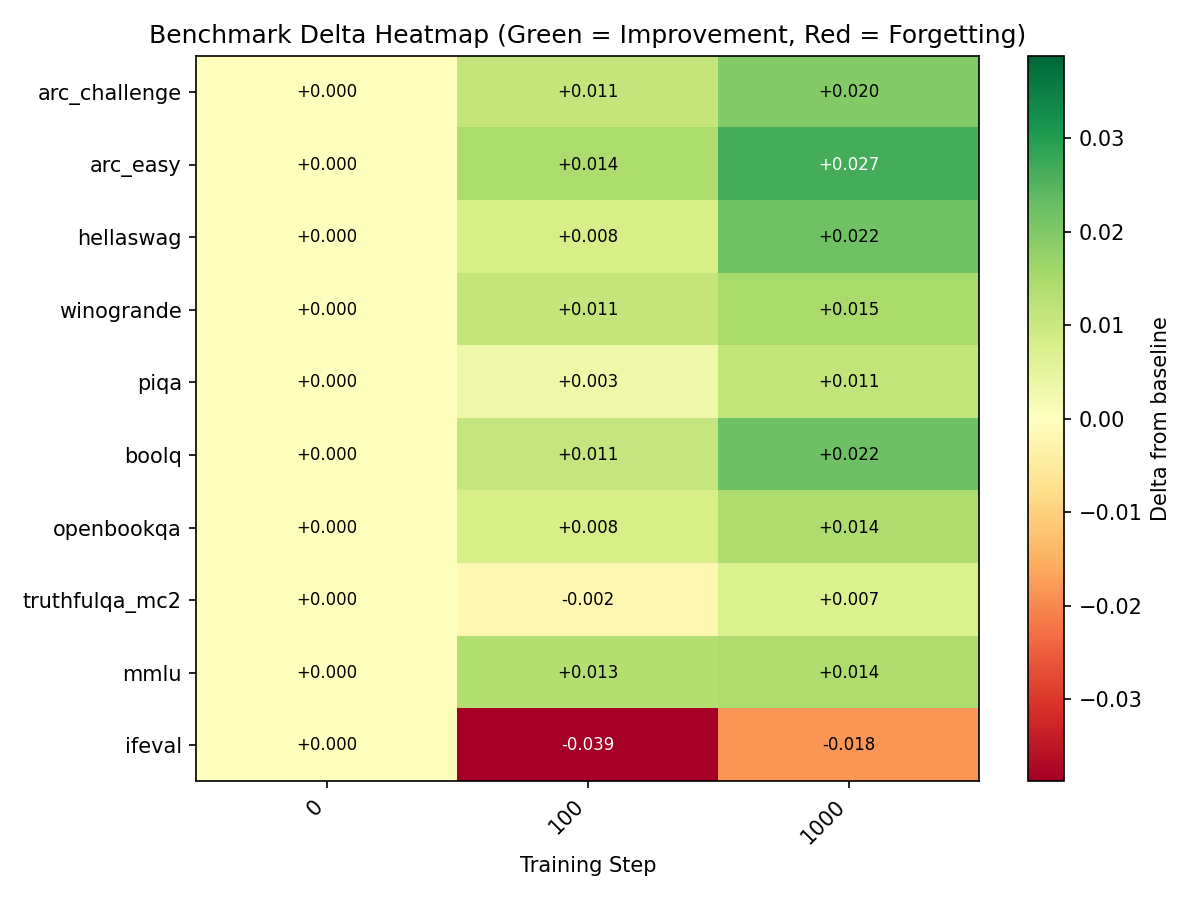
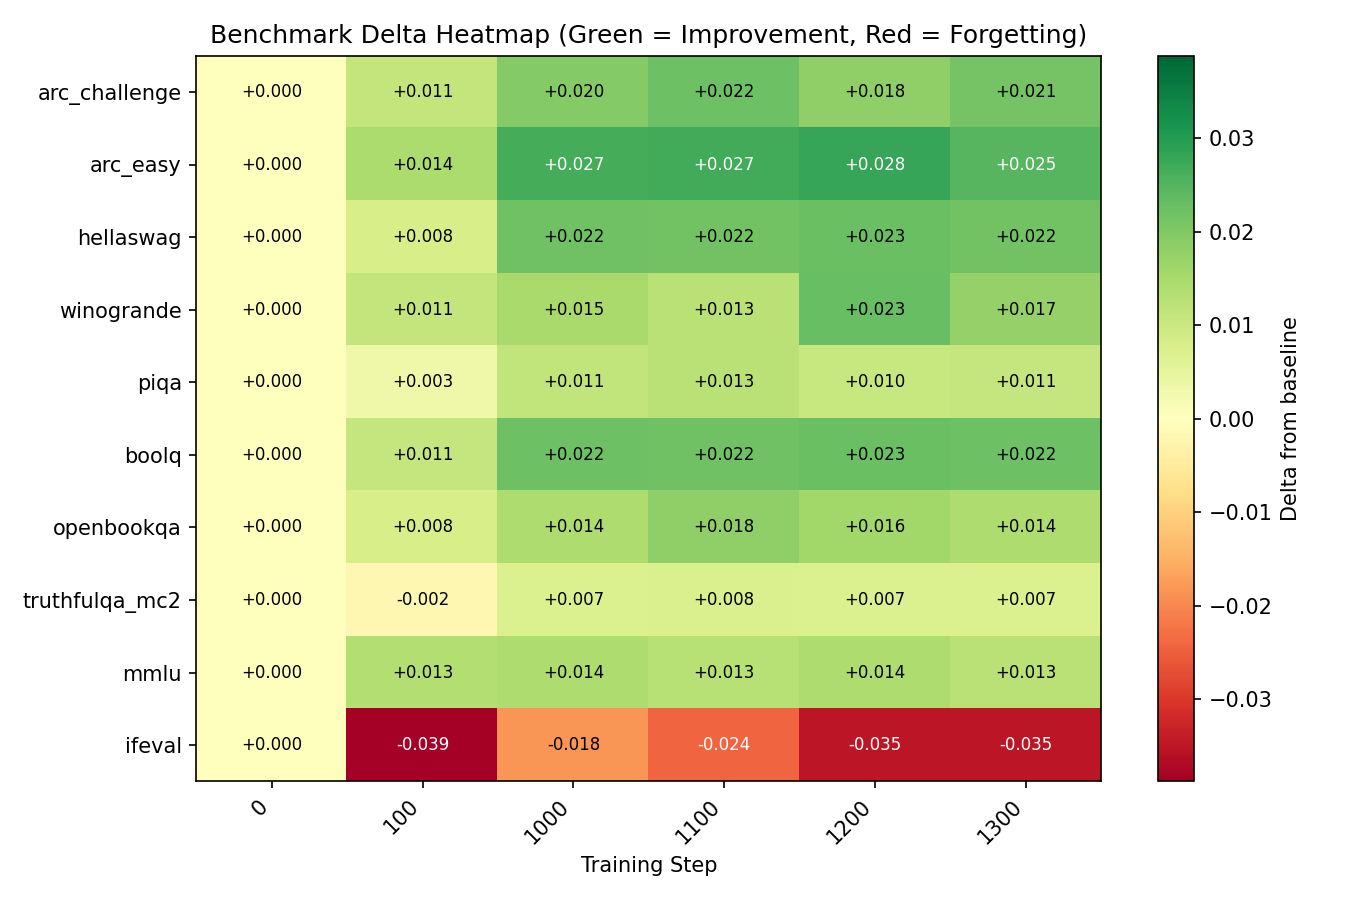
Add GRPO MATH results, update GT-SFT MATH through step 1300
GRPO MATH (complete, 4 checkpoints): essentially no forgetting (+0.003 avg),
IFEval improves +0.031. Contrasts with GRPO GSM8K which shows -0.008 avg.

GT-SFT MATH now through step 1300: +0.012 avg, consistent improvement on
9/10 benchmarks, only IFEval drops (-0.035).

SF-SFT training jobs queued (3 datasets) with fixed max_length for
<think> teacher responses.

diff --git a/STATUS.md b/STATUS.md
@@ -99,13 +99,13 @@ All checkpoint paths relative to `~/scratch/forgetting-llms/`.
 |-----|-------------|------|--------|-----|-------|
 | GRPO GSM8K | 6 + base | **7/7** | **COMPLETE** | A100 | 10 benchmarks |
 | GT-SFT GSM8K | 6 + base | **6/6** | **COMPLETE** | A100 | 8 benchmarks (steps 0, 87, 100, 1000–1200) |
-| GT-SFT MATH | 14 + base | 3/15 | **RUNNING** | L40S | Job 8864513 on cn-l037 |
-| GRPO MATH | 4 + base | 1/5 | **RUNNING** | L40S | Job 8864514 on cn-l054 |
-| GT-SFT TriviaQA | 15 + base | 0/16 | QUEUED | L40S | Job 8864515, depends on GT-SFT MATH |
-| GRPO TriviaQA | 5 + base | 0/6 | QUEUED | L40S | Job 8864516, depends on GRPO MATH |
-| SF-SFT GSM8K | — | — | BLOCKED | — | Training not started |
-| SF-SFT MATH | — | — | BLOCKED | — | Training not started |
-| SF-SFT TriviaQA | — | — | BLOCKED | — | Training not started |
+| GRPO MATH | 4 + base | **4/5** | **COMPLETE** | L40S | 10 benchmarks (step 800 missing results JSON) |
+| GT-SFT MATH | 14 + base | 6/15 | TIMED OUT | L40S | Resumable, 8 more checkpoints needed |
+| GT-SFT TriviaQA | 15 + base | 0/16 | **RUNNING** | L40S | Job 8864515 |
+| GRPO TriviaQA | 5 + base | 0/6 | **RUNNING** | L40S | Job 8864516 |
+| SF-SFT GSM8K | — | — | QUEUED | L40S | Training job 8870423, starts after evals |
+| SF-SFT MATH | — | — | QUEUED | L40S | Training job 8870424 |
+| SF-SFT TriviaQA | — | — | QUEUED | L40S | Training job 8870425 |
 
 **Task Accuracy Evals** (in-distribution, via vLLM + unified_reward.py):
 
@@ -188,25 +188,49 @@ All new jobs on L40S GPUs (46GB VRAM, validated). 2 jobs run in parallel (QOS: 8
 
 ![GT-SFT MATH Heatmap](figures/eval_results/gt_sft_math/heatmap.png)
 
-| Benchmark | Base | Step 100 | Step 1000 | Delta (1000) |
-|-----------|------|----------|-----------|-------------|
-| arc_challenge | 0.4309 | 0.4420 | 0.4505 | **+0.0196** |
-| arc_easy | 0.7003 | 0.7146 | 0.7269 | **+0.0265** |
-| hellaswag | 0.6045 | 0.6126 | 0.6266 | **+0.0221** |
-| winogrande | 0.6069 | 0.6180 | 0.6219 | **+0.0150** |
-| piqa | 0.7247 | 0.7280 | 0.7361 | **+0.0114** |
-| boolq | 0.7771 | 0.7878 | 0.7994 | **+0.0223** |
-| openbookqa | 0.3720 | 0.3800 | 0.3860 | **+0.0140** |
-| truthfulqa_mc2 | 0.4597 | 0.4577 | 0.4668 | **+0.0071** |
-| mmlu | 0.5546 | 0.5681 | 0.5688 | **+0.0142** |
-| ifeval | 0.1756 | 0.1368 | 0.1571 | **-0.0185** |
-| **Average** | | | | **+0.0134** |
+| Benchmark | Base | Step 1000 | Step 1300 | Delta (1300) |
+|-----------|------|-----------|-----------|-------------|
+| arc_challenge | 0.4309 | 0.4505 | 0.4522 | **+0.0213** |
+| arc_easy | 0.7003 | 0.7269 | 0.7252 | **+0.0248** |
+| hellaswag | 0.6045 | 0.6266 | 0.6263 | **+0.0218** |
+| winogrande | 0.6069 | 0.6219 | 0.6243 | **+0.0174** |
+| piqa | 0.7247 | 0.7361 | 0.7356 | **+0.0109** |
+| boolq | 0.7771 | 0.7994 | 0.7994 | **+0.0223** |
+| openbookqa | 0.3720 | 0.3860 | 0.3860 | **+0.0140** |
+| truthfulqa_mc2 | 0.4597 | 0.4668 | 0.4669 | **+0.0072** |
+| mmlu | 0.5546 | 0.5688 | 0.5673 | **+0.0127** |
+| ifeval | 0.1756 | 0.1571 | 0.1405 | **-0.0351** |
+| **Average** | | | | **+0.0117** |
 
-*12 more checkpoints evaluating (job 8864513 on L40S).*
+*6/14 checkpoints done. 8 more evaluating (job 8864513 timed out, will resume).*
+
+### GRPO MATH — Forgetting (10 benchmarks, steps 0–600, COMPLETE)
+
+> GRPO on MATH shows **essentially no forgetting** — +0.003 avg delta. IFEval actually improves (+0.031).
+
+![GRPO MATH Forgetting Curves](figures/eval_results/grpo_math/forgetting_curves.png)
+
+![GRPO MATH Avg Forgetting](figures/eval_results/grpo_math/average_forgetting.png)
+
+![GRPO MATH Heatmap](figures/eval_results/grpo_math/heatmap.png)
+
+| Benchmark | Base | Step 600 | Delta |
+|-----------|------|----------|-------|
+| arc_challenge | 0.4343 | 0.4343 | 0.0000 |
+| arc_easy | 0.6978 | 0.7066 | **+0.0088** |
+| hellaswag | 0.6044 | 0.6067 | +0.0023 |
+| winogrande | 0.6148 | 0.6077 | -0.0071 |
+| piqa | 0.7214 | 0.7203 | -0.0011 |
+| boolq | 0.7765 | 0.7679 | -0.0086 |
+| openbookqa | 0.3640 | 0.3680 | +0.0040 |
+| truthfulqa_mc2 | 0.4582 | 0.4515 | -0.0067 |
+| mmlu | 0.5550 | 0.5603 | **+0.0053** |
+| ifeval | 0.1664 | 0.1978 | **+0.0314** |
+| **Average** | | | **+0.0028** |
 
 ### Comparison: GRPO vs GT-SFT (GSM8K + MATH)
 
-Three methods compared: GRPO on GSM8K, GT-SFT on GSM8K, GT-SFT on MATH.
+Four methods compared: GRPO GSM8K, GT-SFT GSM8K, GRPO MATH, GT-SFT MATH.
 
 #### Benchmark Accuracy (absolute scores per step)
 
@@ -238,12 +262,14 @@ Three methods compared: GRPO on GSM8K, GT-SFT on GSM8K, GT-SFT on MATH.
 | GT-SFT | MATH | — | — | — | Eval pending |
 
 **Key findings:**
-- **GT-SFT improves OOD benchmarks** — scores go UP on both GSM8K (+0.019 avg) and MATH (+0.013 avg). No forgetting.
-- **GRPO degrades OOD benchmarks** — mild forgetting on GSM8K (-0.008 avg), worst on BoolQ (-0.022) and TruthfulQA (-0.016)
+- **GT-SFT improves OOD benchmarks** — scores go UP on both GSM8K (+0.019 avg) and MATH (+0.012 avg). No forgetting.
+- **GRPO on GSM8K causes mild forgetting** (-0.008 avg), worst on BoolQ (-0.022) and TruthfulQA (-0.016)
+- **GRPO on MATH causes no forgetting** (+0.003 avg) — IFEval actually improves (+0.031)
 - **GRPO dramatically improves task accuracy** (59% → 87% on GSM8K), while **GT-SFT drops task accuracy** (59% → 55%)
-- The GT-SFT task accuracy drop is likely a **generation format mismatch**: base model uses `<think>` reasoning mode which SFT training disrupts
+- The GT-SFT task accuracy drop is a **generation format mismatch**: base model uses `<think>` reasoning mode which SFT training overwrites with short-form answers
+- **SF-SFT training launched** — uses Qwen3-32B teacher solutions that preserve `<think>` format, should fix the task accuracy issue
 - GT-SFT on MATH shows same pattern as GSM8K: OOD benchmarks improve, IFEval is the only one that drops
-- **The training method, not the data, drives forgetting**: same GSM8K data, opposite forgetting outcomes
+- Forgetting is **method- and dataset-dependent**: GRPO forgets on GSM8K but not MATH
 
 ---
 
